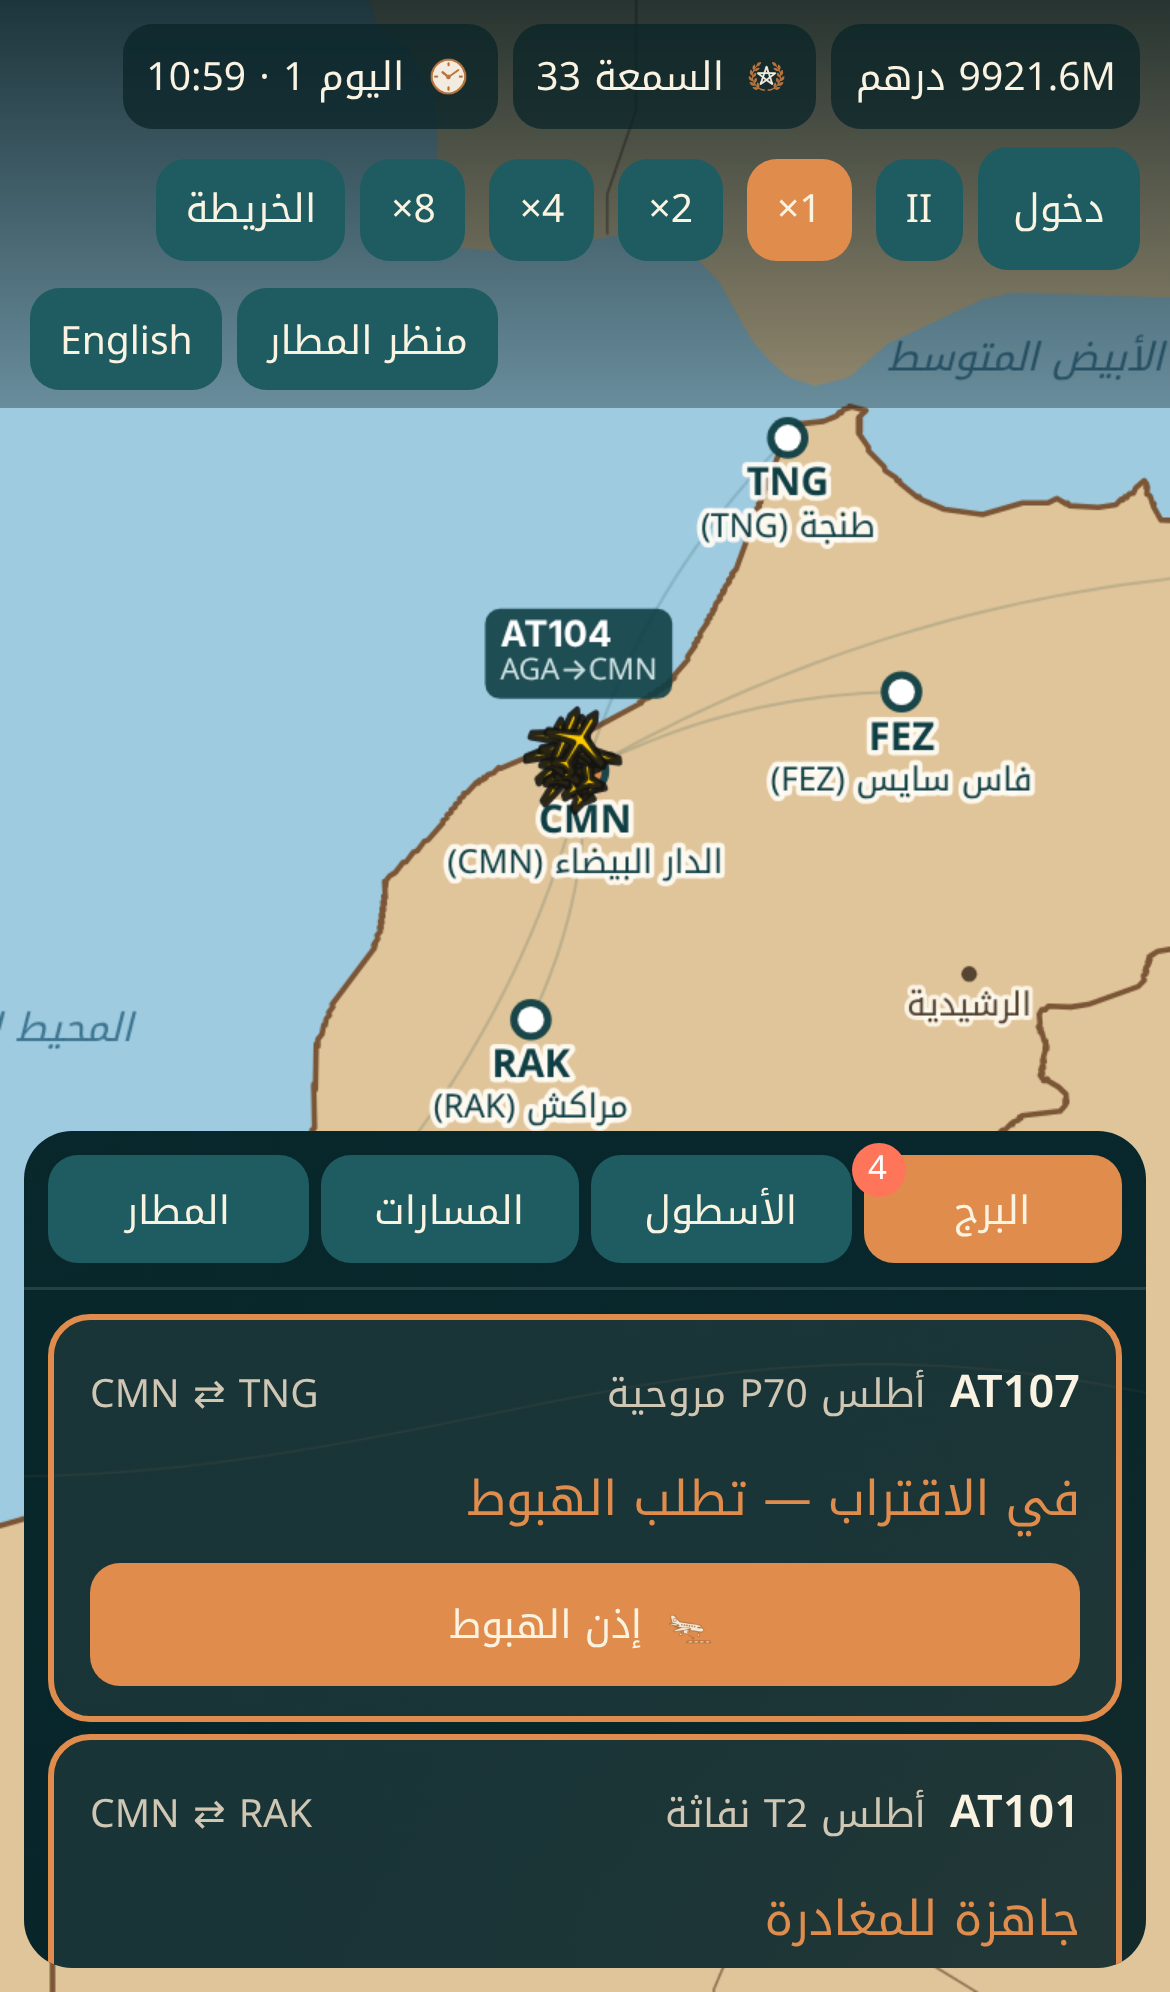
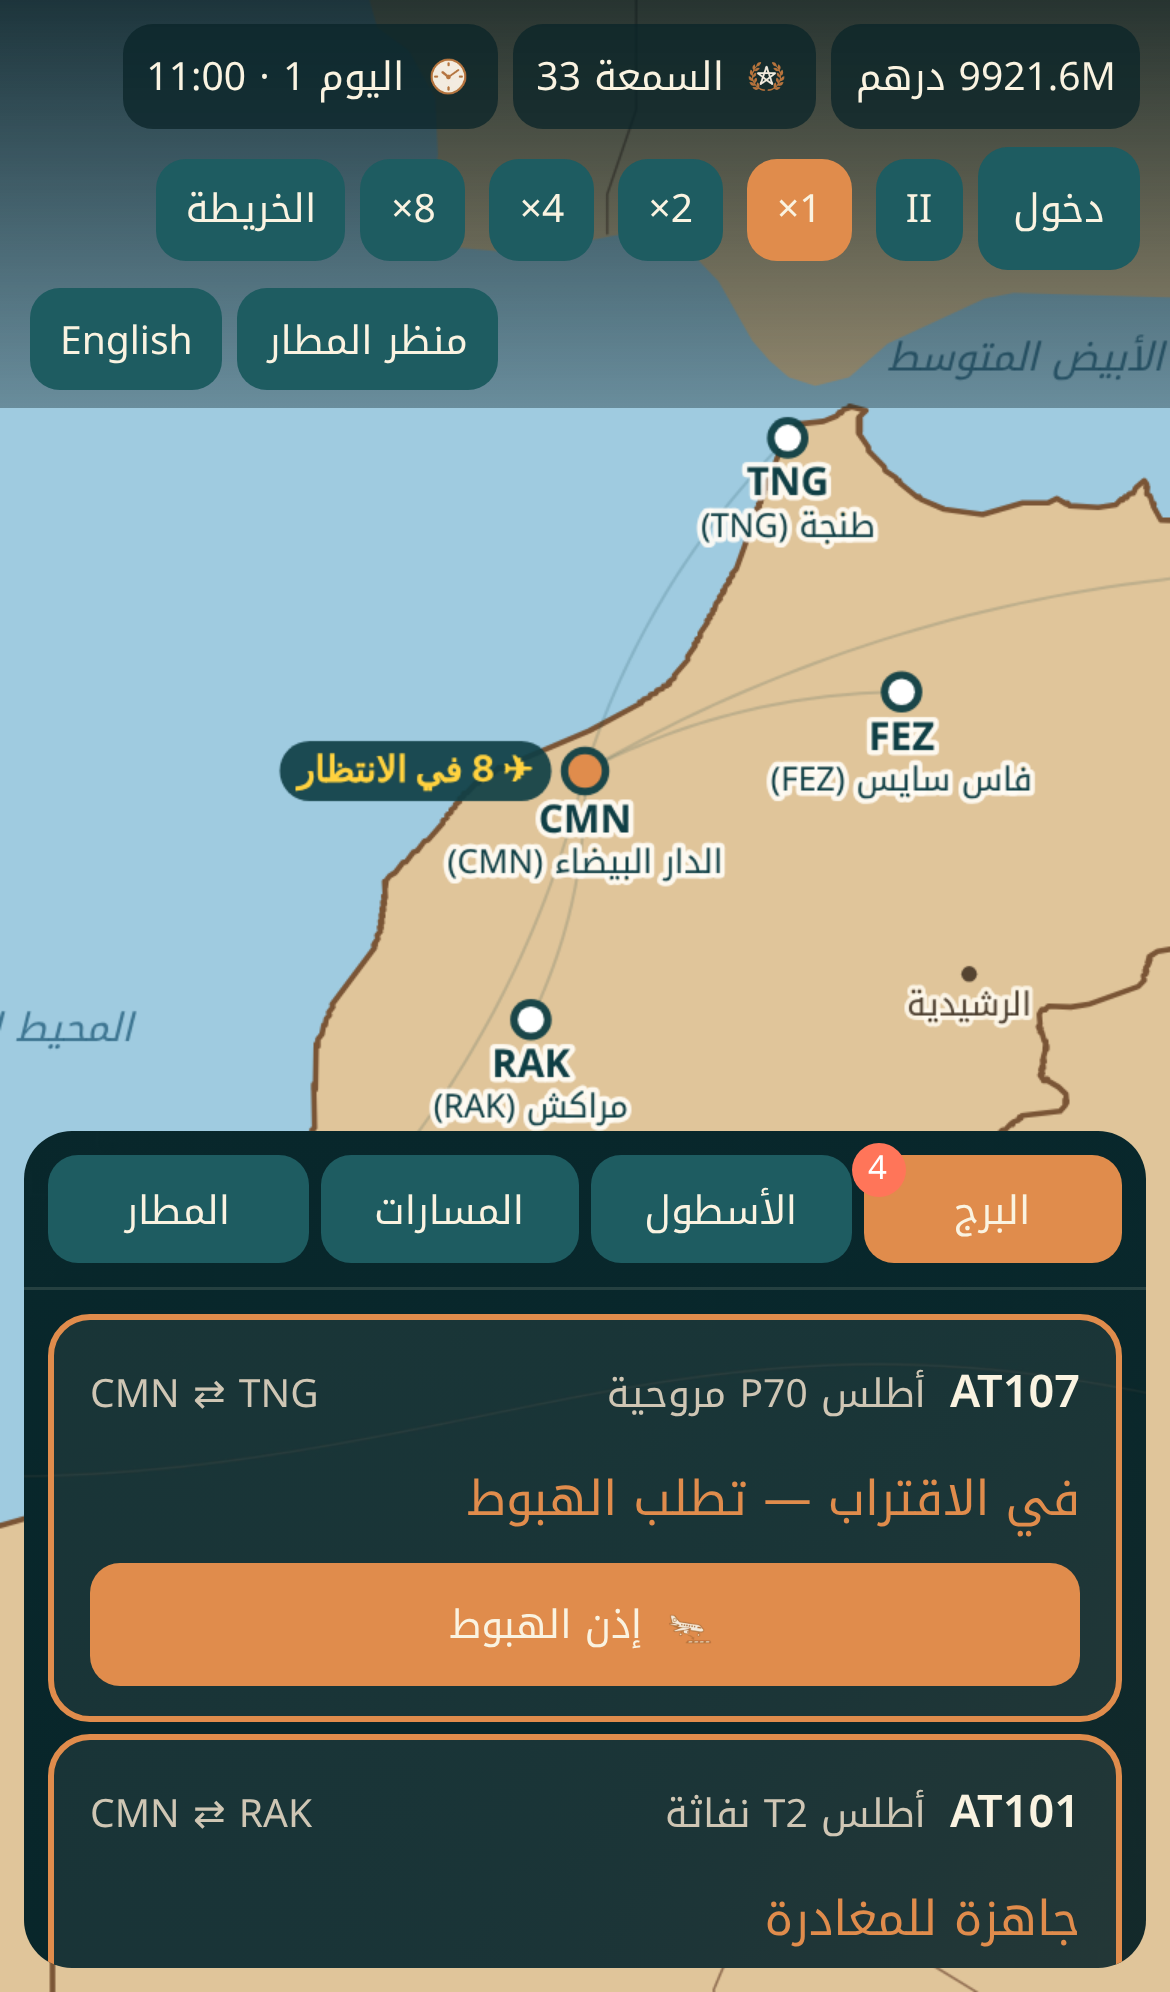
Flight map separation: sticky steering side (no flip as traffic passes), capped sideways steering speed, go-arounds with a long wait hold at their own ring slot; separation check also measures jumps. Busy test: min separation 12.9 km, 0 samples under 10 km
Claude-Session: https://claude.ai/code/session_01RoqHu2TiYBxYCF6HuHvMh8

Changed region(s): [[0.2154, 0.2801, 0.5846, 0.4046], [0.1538, 0.0311, 0.2154, 0.0622]]

diff --git a/web/js/flightmap.js b/web/js/flightmap.js
@@ -18,6 +18,7 @@ const VIS = 1.3;                // same factor as the camera's pan speed, so dra
 const ARC = 0.12;
 const HOLD_SLOTS = 12, HOLD_R = 40;
 const SEP_KM = 10;                   // minimum distance between two flying aircraft on the map (radar separation)
+const STEER_KM_PER_MIN = 14;         // max sideways steering speed (km per game minute)
 const LANE_KM = 6;                   // lateral lane spacing for flights on the same route and direction   // holding ring around the home airport (km)
 const smooth = (a, b, x) => { const k = Math.min(Math.max((x - a) / (b - a), 0), 1); return k * k * (3 - 2 * k); };
 const PLANE = new Path2D('M0,-0.5 L0.06,-0.38 L0.06,-0.12 L0.48,0.08 L0.48,0.15 L0.06,0.05 L0.05,0.33 L0.17,0.42 L0.17,0.48 L0,0.44 L-0.17,0.48 L-0.17,0.42 L-0.05,0.33 L-0.06,0.05 L-0.48,0.15 L-0.48,0.08 L-0.06,-0.12 L-0.06,-0.38 Z');
@@ -102,7 +103,7 @@ export class FlightMap {
       const fresh = !leg || leg.route !== a.route || leg.out !== a.legOut;
       if (fresh || (pv && pv.state !== 'enroute')) {
         if (a.legOut) this.legs.set(a.id, { t0: S.day * 1440 + S.gameMin, route: a.route, out: true, from: pv && pv.p ? pv.p : this.km[DB.home], to: this.km[a.route], dur: Math.max(a.timer, 1), bulge: ARC });
-        else if (pv && pv.state === 'go_around' && pv.p) this.legs.set(a.id, { t0: S.day * 1440 + S.gameMin, route: a.route, out: false, from: pv.p, to: this.approachEntry(), dur: Math.max(a.timer, 1), bulge: 0.35, circuit: true });
+        else if (pv && pv.state === 'go_around' && pv.p) { const now0 = S.day * 1440 + S.gameMin; this.legs.set(a.id, { t0: now0, route: a.route, out: false, from: pv.p, to: this.approachEntry(), dur: Math.max(a.timer, 1), bulge: 0.35, circuit: true, held: a.timer > 10, heldAt: now0 }); }
         else this.legs.set(a.id, { t0: S.day * 1440 + S.gameMin, route: a.route, out: false, from: this.km[a.route], to: this.approachEntry(), dur: fm, bulge: -ARC });
       }
       const L2 = this.legs.get(a.id);
@@ -140,22 +141,27 @@ export class FlightMap {
       items.push({ a, p, prio });
     }
     items.sort((u, v) => u.prio - v.prio);
-    const want = new Map(items.map(it => [it.a.id, [0, 0]]));
+    const want = new Map(items.map(it => [it.a.id, [0, 0]])), steering = new Set(); this.side ||= new Map();
     for (let pass = 0; pass < 3; pass++) {
       for (let i = 0; i < items.length; i++) for (let j = i + 1; j < items.length; j++) {
         const A = items[i], B = items[j]; if (!A.p.air || !B.p.air) continue;
         const oa = want.get(A.a.id), ob = want.get(B.a.id);
         const ax = A.p.p[0] + oa[0], ay = A.p.p[1] + oa[1], bx = B.p.p[0] + ob[0], by = B.p.p[1] + ob[1];
-        const dx = bx - ax, dy = by - ay, d = Math.hypot(dx, dy); if (d >= SEP_KM * 1.15) continue;
+        const dx = bx - ax, dy = by - ay, d = Math.hypot(dx, dy); if (d >= SEP_KM * 1.6) continue;
         const n = Math.hypot(B.p.d[0], B.p.d[1]) || 1; let px = -B.p.d[1] / n, py = B.p.d[0] / n;   // perpendicular to B's track
-        if (px * dx + py * dy < 0) { px = -px; py = -py; }                                            // steer away from A
-        const push = SEP_KM * 1.15 - d; ob[0] += px * push; ob[1] += py * push;
+        let side = this.side.get(B.a.id);                                                              // keep the side once chosen (no flip as A passes)
+        if (side === undefined) { side = px * dx + py * dy < 0 ? -1 : 1; this.side.set(B.a.id, side); }
+        steering.add(B.a.id); px *= side; py *= side;
+        const push = SEP_KM * 1.6 - d; ob[0] += px * push; ob[1] += py * push;
       }
     }
+    for (const id of [...this.side.keys()]) if (!steering.has(id)) { const o = this.off.get(id); if (!o || Math.hypot(o[0], o[1]) < 0.5) this.side.delete(id); }   // released once back on its path
     this.shown = new Map();
     for (const it of items) {
-      const cur = this.off.get(it.a.id) || [0, 0], w = want.get(it.a.id), k = Math.min(1, dt / 0.25);
-      const o = [cur[0] + (w[0] - cur[0]) * k, cur[1] + (w[1] - cur[1]) * k]; this.off.set(it.a.id, o);
+      const w = want.get(it.a.id), cur = this.off.get(it.a.id) || w, k = Math.min(1, dt / 0.12);   // just appeared: start already separated
+      let ox = (w[0] - cur[0]) * k, oy = (w[1] - cur[1]) * k; const step = Math.hypot(ox, oy), cap = STEER_KM_PER_MIN * dt;   // a gradual sideways turn
+      if (step > cap) { ox *= cap / step; oy *= cap / step; }
+      const o = [cur[0] + ox, cur[1] + oy]; this.off.set(it.a.id, o);
       this.shown.set(it.a.id, { a: it.a, p: { ...it.p, p: [it.p.p[0] + o[0], it.p.p[1] + o[1]] } });
     }
   }
